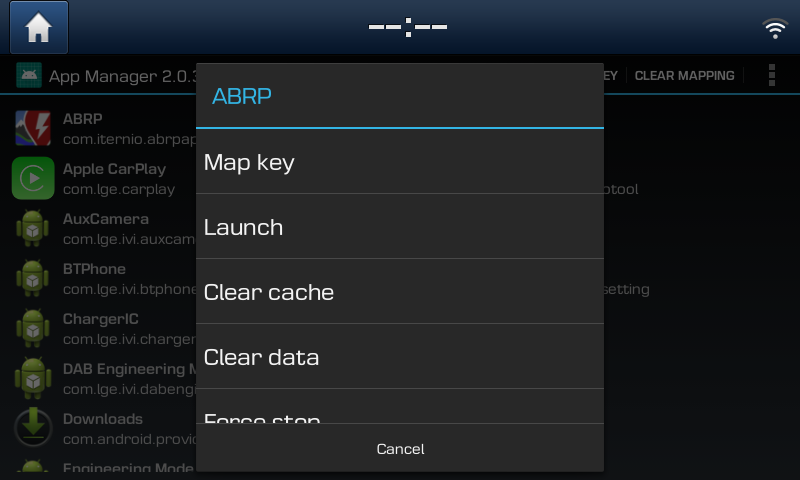
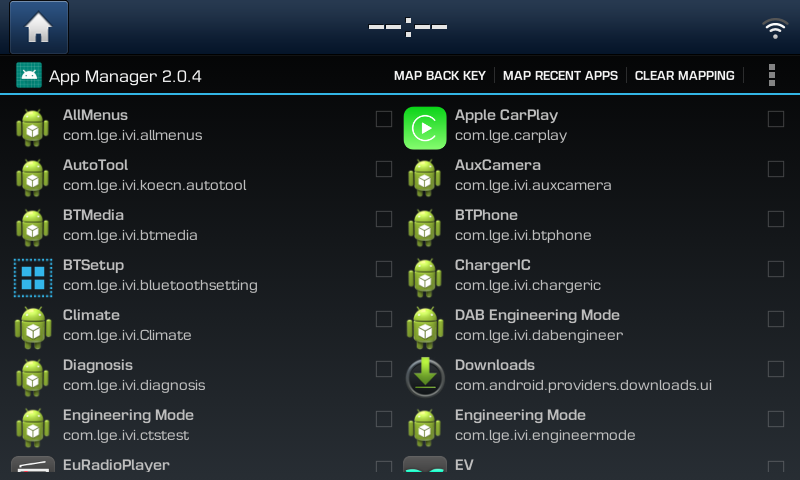
add checkbox showing if a key is mapped

diff --git a/app/src/main/java/g4rb4g3/at/ctsteststarter/MainActivity.java b/app/src/main/java/g4rb4g3/at/ctsteststarter/MainActivity.java
@@ -17,6 +17,7 @@ import android.os.IBinder;
 import android.os.Looper;
 import android.os.Message;
 import android.os.RemoteException;
+import android.text.TextUtils;
 import android.view.Menu;
 import android.view.MenuItem;
 import android.view.ViewConfiguration;
@@ -31,14 +32,15 @@ import java.util.HashMap;
 import java.util.List;
 import java.util.Map;
 
+import static g4rb4g3.at.ctsteststarter.KeyInterceptorService.MAPPED_APP;
 import static g4rb4g3.at.ctsteststarter.KeyInterceptorService.PREFERENCES_NAME;
 import static g4rb4g3.at.ctsteststarter.KeyInterceptorService.SHOW_MESSAGE;
+import static g4rb4g3.at.ctsteststarter.KeyInterceptorService.UNMAPPED_APP;
 
 public class MainActivity extends Activity {
   private boolean mBound = false;
   private KeyInterceptorService mService;
   private PackageManager mPackageManager = null;
-  private List<LaunchableApplicationInfo> mApplist = null;
   private ApplicationAdapter mListAdapter = null;
   private GridView mGvAppList;
   private AlertDialog mAlertDialog;
@@ -55,6 +57,12 @@ public class MainActivity extends Activity {
           if (mAlertDialog != null && mAlertDialog.isShowing()) {
             mAlertDialog.dismiss();
           }
+          break;
+        case MAPPED_APP:
+          mListAdapter.setKeyMapped(msg.obj.toString(), true);
+          break;
+        case UNMAPPED_APP:
+          mListAdapter.setKeyMapped(msg.obj.toString(), false);
           break;
       }
     }
@@ -89,7 +97,7 @@ public class MainActivity extends Activity {
 
     mGvAppList = findViewById(R.id.gv_all_apps);
     mGvAppList.setOnItemClickListener((parent, view, position, id) -> {
-      LaunchableApplicationInfo info = mApplist.get(position);
+      LaunchableApplicationInfo info = mListAdapter.getItem(position);
       showAppOptions(info, position);
     });
 
@@ -185,7 +193,7 @@ public class MainActivity extends Activity {
     }
   }
 
-  private void mapAppToKey(final LaunchableApplicationInfo info) {
+  public void mapAppToKey(final LaunchableApplicationInfo info) {
     if (!info.isLaunchable) {
       Toast.makeText(this, R.string.not_assignable, Toast.LENGTH_SHORT).show();
       return;
@@ -203,7 +211,10 @@ public class MainActivity extends Activity {
   private void showAppOptions(final LaunchableApplicationInfo info, final int position) {
     final ArrayAdapter<String> items = new ArrayAdapter<>(this, android.R.layout.simple_selectable_list_item);
     if (info.isLaunchable) {
-      items.addAll(getString(R.string.map_key), getString(R.string.launch));
+      if (!info.isKeyMapped) {
+        items.add(getString(R.string.map_key));
+      }
+      items.add(getString(R.string.launch));
     }
     items.addAll(getString(R.string.clear_cache), getString(R.string.clear_data), getString(R.string.force_stop));
     if (!info.isSystemApp) {
@@ -211,6 +222,7 @@ public class MainActivity extends Activity {
     }
     new AlertDialog.Builder(this)
         .setTitle(info.name)
+        .setIcon(info.loadIcon(mPackageManager))
         .setNegativeButton(R.string.cancel, (dialog, which) -> dialog.dismiss())
         .setAdapter(items, (dialog, which) -> {
           switch (contextOptions.get(items.getItem(which))) {
@@ -220,7 +232,7 @@ public class MainActivity extends Activity {
             case R.string.uninstall:
               try {
                 ProcessExecutor.executeRootCommand("pm uninstall " + info.packageName);
-                mApplist.remove(position);
+                mListAdapter.remove(info);
                 mListAdapter.notifyDataSetChanged();
 
                 SharedPreferences sharedPreferences = getSharedPreferences(PREFERENCES_NAME, MODE_PRIVATE);
@@ -277,10 +289,8 @@ public class MainActivity extends Activity {
 
     @Override
     protected Void doInBackground(Void... params) {
-      mApplist = checkForLaunchIntent(mPackageManager.getInstalledApplications(PackageManager.GET_META_DATA));
-      mListAdapter = new ApplicationAdapter(MainActivity.this,
-          R.layout.app_list_item, mApplist);
-
+      List<LaunchableApplicationInfo> appList = checkForLaunchIntent(mPackageManager.getInstalledApplications(PackageManager.GET_META_DATA));
+      mListAdapter = new ApplicationAdapter(MainActivity.this, R.layout.app_list_item, appList);
       return null;
     }
 
@@ -303,6 +313,13 @@ public class MainActivity extends Activity {
     }
 
     private List<LaunchableApplicationInfo> checkForLaunchIntent(List<ApplicationInfo> list) {
+      List<String> mappedApps = new ArrayList<>();
+      Map<String, ?> preferences = getSharedPreferences(PREFERENCES_NAME, MODE_PRIVATE).getAll();
+      for (Map.Entry<String, ?> entry : preferences.entrySet()) {
+        if (TextUtils.isDigitsOnly(entry.getKey())) {
+          mappedApps.add(entry.getValue().toString());
+        }
+      }
       String ownPackageName = getPackageName();
       ArrayList<LaunchableApplicationInfo> applist = new ArrayList<>();
       for (ApplicationInfo info : list) {
@@ -312,6 +329,7 @@ public class MainActivity extends Activity {
             if (!mShowAllApps && !applicationInfo.isLaunchable) {
               continue;
             }
+            applicationInfo.isKeyMapped = mappedApps.contains(applicationInfo.packageName);
             String appLabel = applicationInfo.loadLabel(mPackageManager).toString();
             applicationInfo.name = appLabel == null ? "" : appLabel;
             applist.add(applicationInfo);

diff --git a/app/src/main/java/g4rb4g3/at/ctsteststarter/ApplicationAdapter.java b/app/src/main/java/g4rb4g3/at/ctsteststarter/ApplicationAdapter.java
@@ -1,19 +1,23 @@
 package g4rb4g3.at.ctsteststarter;
 
 import android.content.Context;
-import android.content.pm.ApplicationInfo;
+import android.content.SharedPreferences;
 import android.content.pm.PackageManager;
 import android.view.LayoutInflater;
 import android.view.View;
 import android.view.ViewGroup;
 import android.widget.ArrayAdapter;
+import android.widget.CheckBox;
 import android.widget.ImageView;
 import android.widget.TextView;
 
 import java.util.List;
+import java.util.Map;
+
+import static g4rb4g3.at.ctsteststarter.KeyInterceptorService.PREFERENCES_NAME;
 
 public class ApplicationAdapter extends ArrayAdapter<LaunchableApplicationInfo> {
-  private List<LaunchableApplicationInfo> mAppsList = null;
+  private List<LaunchableApplicationInfo> mAppsList;
   private Context mContext;
   private PackageManager mPackageManager;
 
@@ -34,6 +38,16 @@ public class ApplicationAdapter extends ArrayAdapter<LaunchableApplicationInfo> 
     return ((mAppsList != null) ? mAppsList.get(position) : null);
   }
 
+  public void setKeyMapped(String packageName, boolean mapped) {
+    for (LaunchableApplicationInfo info : mAppsList) {
+      if (info.packageName.equals(packageName)) {
+        info.isKeyMapped = mapped;
+        notifyDataSetChanged();
+        break;
+      }
+    }
+  }
+
   @Override
   public long getItemId(int position) {
     return position;
@@ -48,15 +62,34 @@ public class ApplicationAdapter extends ArrayAdapter<LaunchableApplicationInfo> 
       view = layoutInflater.inflate(R.layout.app_list_item, null);
     }
 
-    ApplicationInfo applicationInfo = mAppsList.get(position);
+    LaunchableApplicationInfo applicationInfo = mAppsList.get(position);
     if (null != applicationInfo) {
       TextView appName = view.findViewById(R.id.app_name);
       TextView packageName = view.findViewById(R.id.app_paackage);
       ImageView iconview = view.findViewById(R.id.app_icon);
+      CheckBox mapped = view.findViewById(R.id.cb_mapped);
 
       appName.setText(applicationInfo.name);
       packageName.setText(applicationInfo.packageName);
       iconview.setImageDrawable(applicationInfo.loadIcon(mPackageManager));
+
+      mapped.setClickable(applicationInfo.isKeyMapped);
+      mapped.setOnCheckedChangeListener((buttonView, isChecked) -> {
+        if (!isChecked) {
+          SharedPreferences sharedPreferences = mContext.getSharedPreferences(PREFERENCES_NAME, Context.MODE_PRIVATE);
+          SharedPreferences.Editor editor = sharedPreferences.edit();
+          Map<String, ?> preferences = sharedPreferences.getAll();
+          for (Map.Entry<String, ?> entry : preferences.entrySet()) {
+            if (applicationInfo.packageName.equals(entry.getValue().toString())) {
+              editor.remove(entry.getKey());
+            }
+          }
+          editor.commit();
+          applicationInfo.isKeyMapped = false;
+          mapped.setClickable(false);
+        }
+      });
+      mapped.setChecked(applicationInfo.isKeyMapped);
     }
     return view;
   }

diff --git a/app/src/main/java/g4rb4g3/at/ctsteststarter/KeyInterceptorService.java b/app/src/main/java/g4rb4g3/at/ctsteststarter/KeyInterceptorService.java
@@ -29,6 +29,9 @@ public class KeyInterceptorService extends Service {
   public static final String PREFERENCES_NAME = "preferences";
 
   public static final int SHOW_MESSAGE = 1;
+  public static final int MAPPED_APP = 2;
+  public static final int UNMAPPED_APP = 3;
+
 
   private final IBinder mBinder = new KeyInterceptorBinder();
   private List<Handler> mRegisteredHandlers = new ArrayList<>();
@@ -60,13 +63,18 @@ public class KeyInterceptorService extends Service {
       if (mNextAppMappingApplicationInfo != null) {
         mSharedPreferences.edit().putString(String.valueOf(keyEvent.getKeyCode()), mNextAppMappingApplicationInfo.packageName).commit();
         notifyHandlers(SHOW_MESSAGE, getString(R.string.mapping_app_completed, keyEvent.getKeyCode(), mNextAppMappingApplicationInfo.name));
+        notifyHandlers(MAPPED_APP, mNextAppMappingApplicationInfo.packageName);
         mNextAppMappingApplicationInfo = null;
         return true;
       }
 
       if (mClearKeyMapping) {
-        mSharedPreferences.edit().remove(String.valueOf(keyEvent.getKeyCode())).commit();
-        notifyHandlers(SHOW_MESSAGE, getString(R.string.mapping_cleared, keyEvent.getKeyCode()));
+        String packageName = mSharedPreferences.getString(String.valueOf(keyEvent.getKeyCode()), null);
+        if (packageName != null) {
+          notifyHandlers(UNMAPPED_APP, packageName);
+          mSharedPreferences.edit().remove(String.valueOf(keyEvent.getKeyCode())).commit();
+          notifyHandlers(SHOW_MESSAGE, getString(R.string.mapping_cleared, keyEvent.getKeyCode()));
+        }
         mClearKeyMapping = false;
         return true;
       }

diff --git a/app/src/main/java/g4rb4g3/at/ctsteststarter/LaunchableApplicationInfo.java b/app/src/main/java/g4rb4g3/at/ctsteststarter/LaunchableApplicationInfo.java
@@ -5,6 +5,7 @@ import android.content.pm.ApplicationInfo;
 public class LaunchableApplicationInfo extends ApplicationInfo {
   public boolean isLaunchable;
   public boolean isSystemApp;
+  public boolean isKeyMapped;
 
   public LaunchableApplicationInfo(ApplicationInfo applicationInfo, boolean isLaunchable) {
     super(applicationInfo);

diff --git a/README.md b/README.md
@@ -10,7 +10,10 @@ Allows you to map hardware keys to custom apps and manage apps. <br />
 * Force stop app
 * Uninstall app
 
-![Screenshot](doc/screenshot.png)
+![Screenshot](doc/screenshot.png) <br />
+Checkbox for list item will show you if you have mapped a key already.
+
+![Screenshot](doc/screenshot2.png) <br />
 
 If you like my work I'd be happy if you buy me a coffee. Thanks!<br  />
 [![](https://www.paypalobjects.com/en_US/i/btn/btn_donateCC_LG.gif)](https://www.paypal.com/cgi-bin/webscr?cmd=_s-xclick&hosted_button_id=RT8WTFDGMLFPG)
